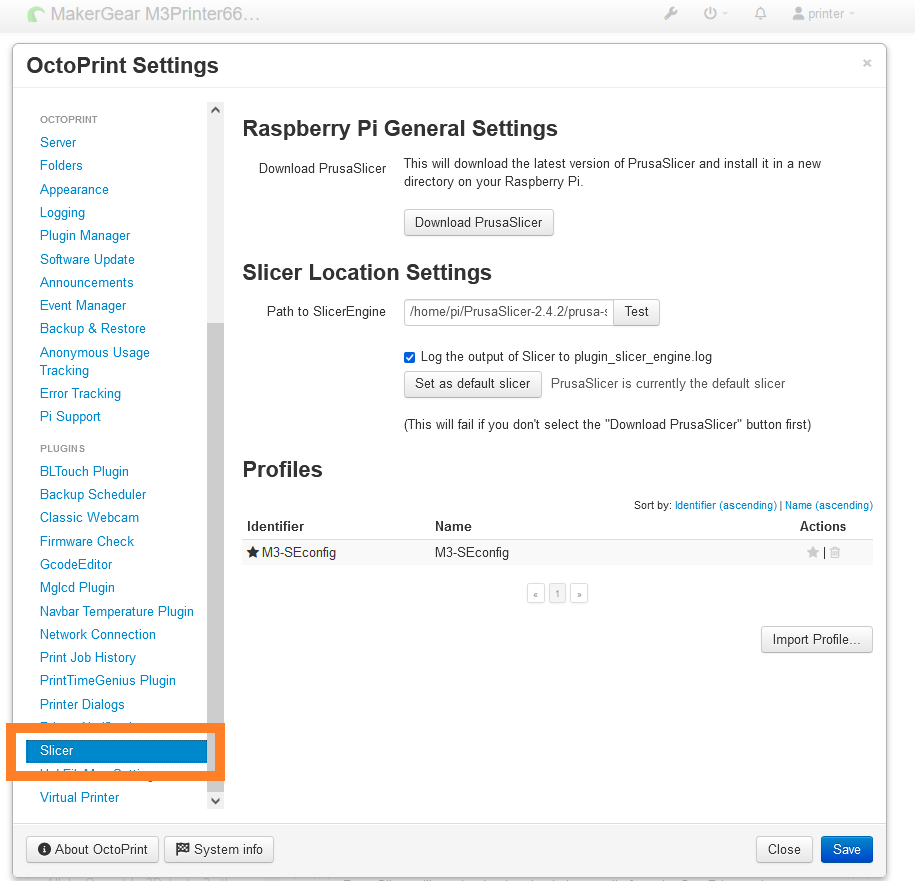
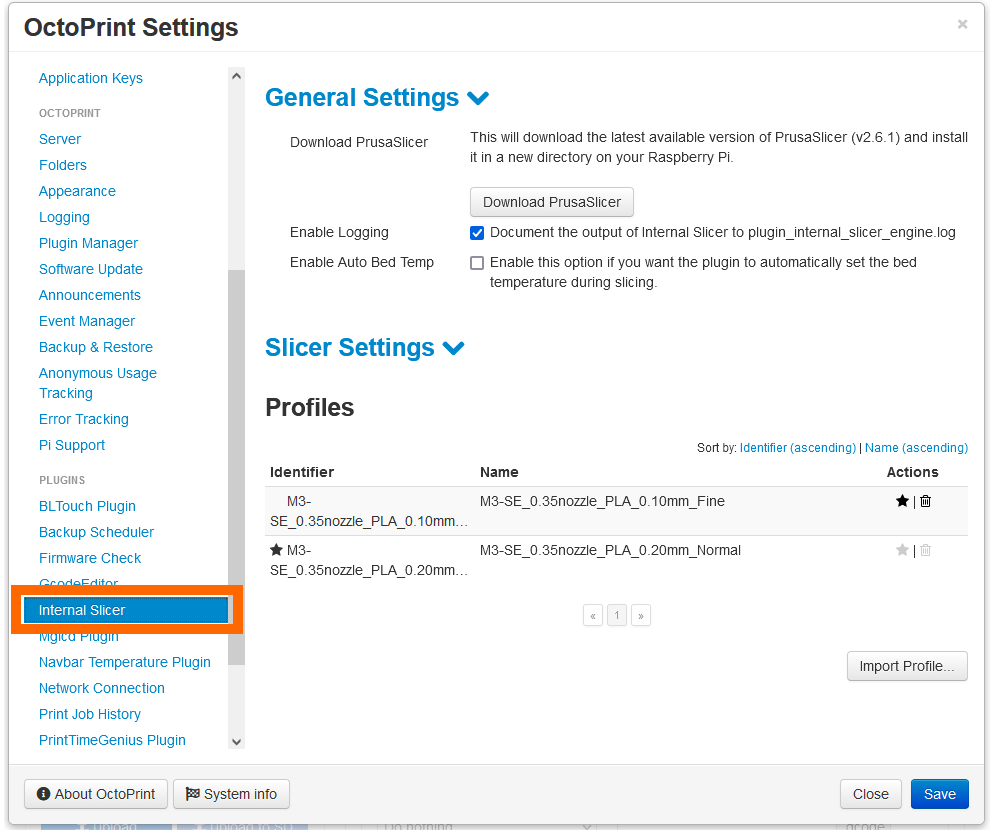
Version v1.0.1
- Simplified PrusaSlicer installation
- Code cleanup
- Update repo photos
- Added more help menu FAQ

diff --git a/octoprint_internal_slicer/__init__.py b/octoprint_internal_slicer/__init__.py
@@ -102,7 +102,7 @@ class InternalSlicer(octoprint.plugin.SettingsPlugin,
 		slicer_logging_handler.setLevel(logging.DEBUG)
 
 		self._slicer_logger.addHandler(slicer_logging_handler)
-		self._slicer_logger.setLevel(logging.DEBUG if self._settings.get_boolean(["debug_logging"]) else logging.CRITICAL)
+		self._slicer_logger.setLevel(logging.DEBUG if self._settings.get_boolean(["debug_logging"]) else logging.INFO)
 		self._slicer_logger.propagate = False
 
 	def on_after_startup(self):
@@ -124,64 +124,36 @@ class InternalSlicer(octoprint.plugin.SettingsPlugin,
 			debug_logging=True,
 			disableGUI = False,
 			enableAutoBedTemp = False,
-			enableCpuLimit = False,
+			enableCpuLimit = False, 
 			cpuLimitInstalled = False,
 			cpuLimit_Value = 100,
 			wizard_version=0
 		)
 	
 	def on_settings_save(self, data):
-		old_GUI_value = self._settings.get_boolean(["disableGUI"])
-		old_debug_logging = self._settings.get_boolean(["debug_logging"])
-		old_enableAutoBedTemp = self._settings.get_boolean(["enableAutoBedTemp"])
-		old_enableCpuLimit = self._settings.get_boolean(["enableCpuLimit"])
-		old_cpuLimitInstalled = self._settings.get_boolean(["cpuLimitInstalled"])
-		
+		settings = [
+        	{"name": "disableGUI", "log_msg": "GUI"},
+        	{"name": "debug_logging", "log_msg": "Debug logging"},
+        	{"name": "enableAutoBedTemp", "log_msg": "Auto bed temp"},
+        	{"name": "enableCpuLimit", "log_msg": "CPU Limit"},
+        	{"name": "cpuLimitInstalled", "log_msg": "CPU Limit is installed"},
+    	]
+
+		old_values = {setting["name"]: self._settings.get_boolean([setting["name"]]) for setting in settings}
 		octoprint.plugin.SettingsPlugin.on_settings_save(self, data)
 
-		new_GUI_value = self._settings.get_boolean(["disableGUI"])
-		new_debug_logging = self._settings.get_boolean(["debug_logging"])
-		new_enableAutoBedTemp = self._settings.get_boolean(["enableAutoBedTemp"])
-		new_enableCpuLimit = self._settings.get_boolean(["enableCpuLimit"])
-		new_cpuLimitInstalled = self._settings.get_boolean(["cpuLimitInstalled"])
+		for setting in settings:
+			new_value = self._settings.get_boolean([setting["name"]])
 
-		if old_debug_logging != new_debug_logging:
-			if new_debug_logging:
-				self._logger.setLevel(logging.DEBUG)
-			else:
-				self._logger.setLevel(logging.CRITICAL)
-		
-		if old_GUI_value != new_GUI_value:
-			if new_GUI_value:
-				self._settings.set_boolean(["disableGUI"], True)
-				self._logger.info("GUI Disabled.")
-			else:
-				self._settings.set_boolean(["disableGUI"], False)
-				self._logger.info("GUI Enabled.")
+			#debuging
+			#self._logger.info(f"Old value of {setting['name']}: {old_values[setting['name']]}")
+			#self._logger.info(f"New value of {setting['name']}: {new_value}")
+			if old_values[setting['name']] != new_value:
+				if new_value:
+					self._logger.info(f"{setting['log_msg']} enabled.")
+				else:
+					self._logger.info(f"{setting['log_msg']} disabled.")
 
-		if old_enableAutoBedTemp != new_enableAutoBedTemp:
-			if new_enableAutoBedTemp:
-				self._settings.set_boolean(["enableAutoBedTemp"], True)
-				self._logger.info("Auto bed temp enabled.")
-			else:
-				self._settings.set_boolean(["enableAutoBedTemp"], False)
-				self._logger.info("Auto bed temp disabled.")
-		
-		if old_enableCpuLimit != new_enableCpuLimit:
-			if new_enableCpuLimit:
-				self._settings.set_boolean(["enableCpuLimit"], True)
-				self._logger.info("CPU Limit enabled.")
-			else:
-				self._settings.set_boolean(["enableCpuLimit"], False)
-				self._logger.info("CPU Limit disabled.")
-
-		if old_cpuLimitInstalled != new_cpuLimitInstalled:
-			if new_cpuLimitInstalled:
-				self._settings.set_boolean(["cpuLimitInstalled"], True)
-				self._logger.info("CPU Limit is installed.")
-			else:
-				self._settings.set_boolean(["cpuLimitInstalled"], False)
-				self._logger.info("CPU Limit is not installed")
 
 	##~~ SimpleApiPlugin mixin
 	def get_api_commands(self):
@@ -222,6 +194,7 @@ class InternalSlicer(octoprint.plugin.SettingsPlugin,
 	#def reset_wizard(self):
 		#self._settings.set(["wizard_version"], 0)
 		#self._settings.save()
+
 
 	##~~ BlueprintPlugin mixin
 	@octoprint.plugin.BlueprintPlugin.route("/import", methods=["POST"])
@@ -294,6 +267,7 @@ class InternalSlicer(octoprint.plugin.SettingsPlugin,
 	def is_blueprint_csrf_protected(self):
 		return True
 
+
 	##~~ EventHandlerPlugin mixin
 	def on_event(self, event, payload):
 		# check if event is slicing started
@@ -305,6 +279,7 @@ class InternalSlicer(octoprint.plugin.SettingsPlugin,
 		elif event == octoprint.events.Events.SLICING_DONE or event == octoprint.events.Events.SLICING_CANCELLED or event == octoprint.events.Events.SLICING_FAILED :
 			# Clear processing slice
 			self.processingSlice = False
+
 
 	##~~ SlicerPlugin mixin
 	def is_slicer_configured(self):
@@ -513,6 +488,8 @@ class InternalSlicer(octoprint.plugin.SettingsPlugin,
 			raise IOError("Cannot overwrite {path}".format(path=path))
 		Profile.to_slicer_ini(profile, path, display_name=display_name, description=description)
 
+
+	##~~ Custom Functions
 	def installCPULimit(self):
 		# Check if CPU Limit is installed
 		if self._settings.get(["cpuLimitInstalled"]) is True:
@@ -568,6 +545,8 @@ class InternalSlicer(octoprint.plugin.SettingsPlugin,
 		if proc.poll() is not None and os.access(os.path.expanduser("~/slicers/PrusaSlicer-version_2.6.1-armhf.AppImage"), os.X_OK):
 			self._plugin_manager.send_plugin_message("internal_slicer", dict(slicerCommandResponse = "PrusaSlicer has been installed!"))
 			self._logger.info("PrusaSlicer has been installed!")
+			self.is_slicer_configured()
+
 		else:
 			self._plugin_manager.send_plugin_message("internal_slicer", dict(slicerCommandResponse = "The PrusaSlicer installation has failed Maybe try downloading the offline installation?" + 
 														   									" https://github.com/Garr-Garr/OctoPrint-InternalSlicer/archive/refs/heads/offline.zip"))

diff --git a/setup.py b/setup.py
@@ -13,7 +13,7 @@ plugin_package = "octoprint_internal_slicer"
 plugin_name = "OctoPrint-Internal_Slicer"
 
 # The plugin's version. Can be overwritten within OctoPrint's internal data via __plugin_version__ in the plugin module
-plugin_version = "1.0.0"
+plugin_version = "1.0.1"
 
 # The plugin's description. Can be overwritten within OctoPrint's internal data via __plugin_description__ in the plugin
 # module
